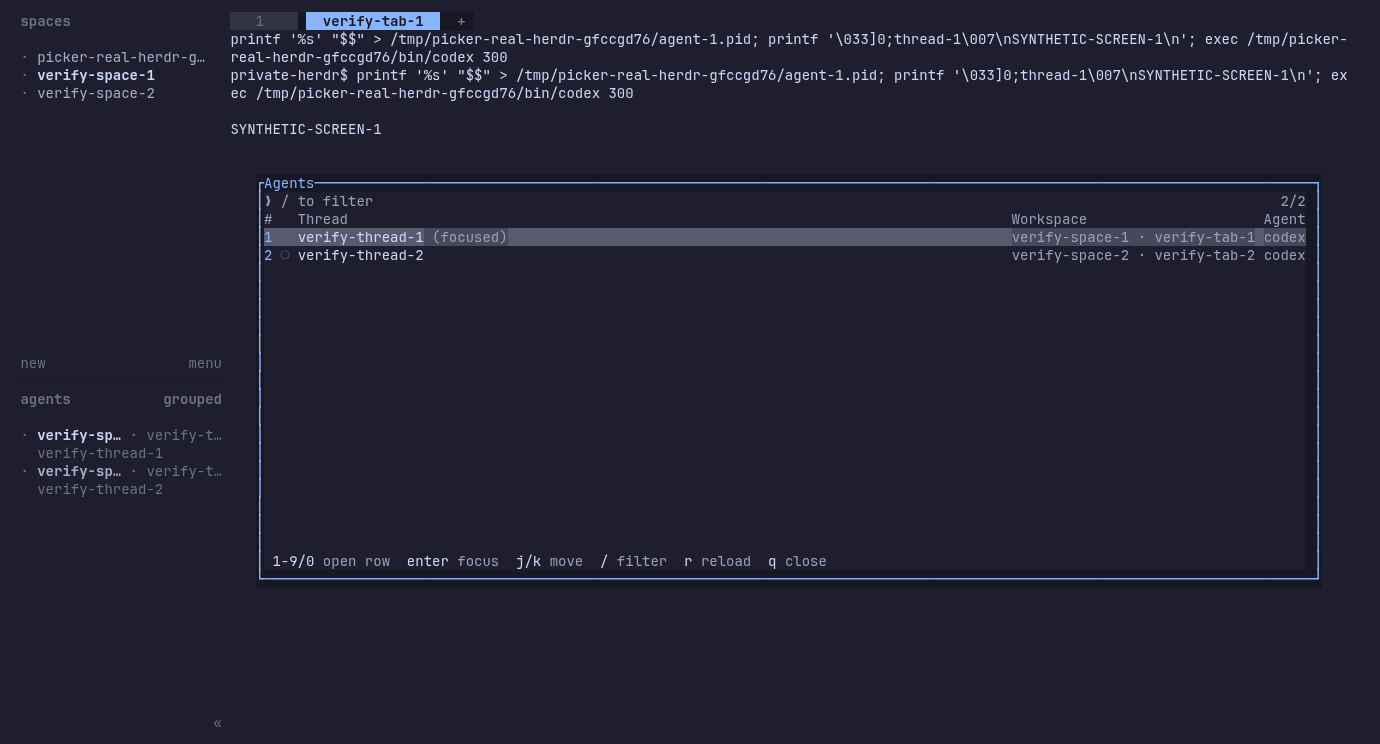
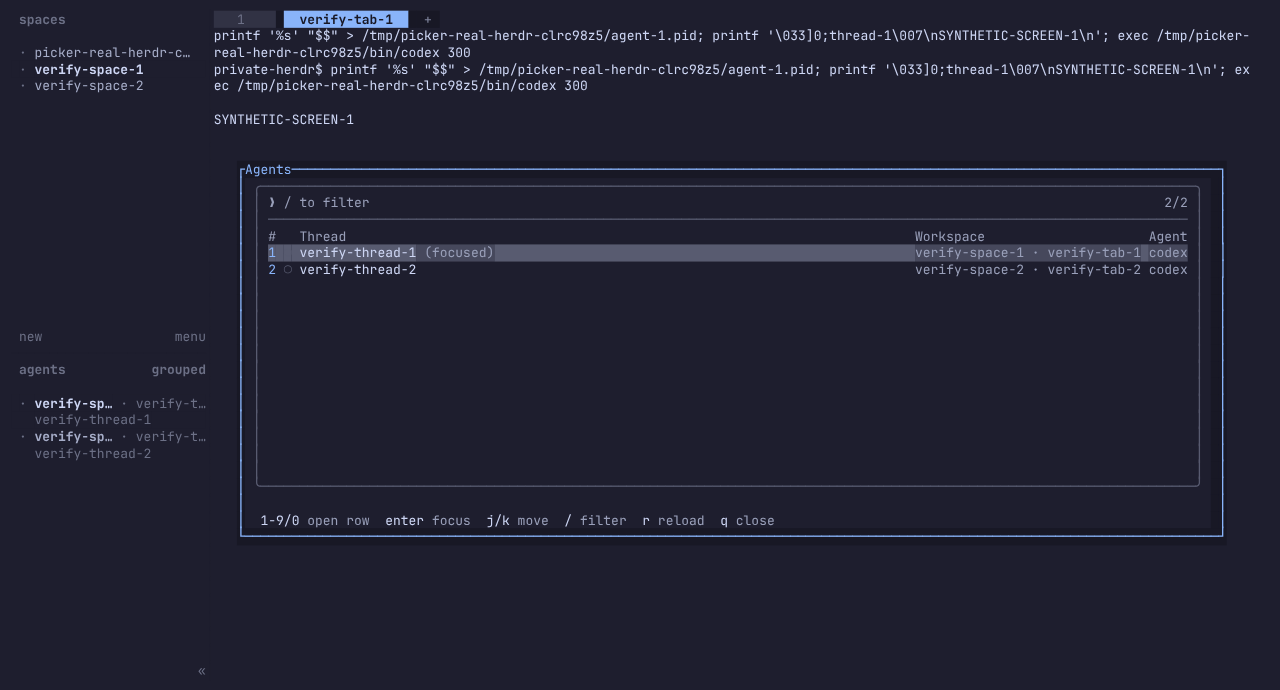
fix(no-ticket): group picker search and threads in a rounded panel

diff --git a/src/ui.rs b/src/ui.rs
@@ -1,8 +1,10 @@
 use ratatui::Frame;
-use ratatui::layout::{Constraint, Layout, Position, Rect};
+use ratatui::layout::{Constraint, Layout, Margin, Position, Rect};
 use ratatui::style::{Color, Modifier, Style, Stylize};
 use ratatui::text::{Line, Span};
-use ratatui::widgets::{Cell, Paragraph, Row, Table, TableState};
+use ratatui::widgets::{
+    Block, BorderType, Borders, Cell, Padding, Paragraph, Row, Table, TableState,
+};
 
 use crate::app::{App, Mode};
 
@@ -10,13 +12,31 @@ use crate::app::{App, Mode};
 const SPINNER: [&str; 10] = ["⠋", "⠙", "⠹", "⠸", "⠼", "⠴", "⠦", "⠧", "⠇", "⠏"];
 
 pub fn draw(frame: &mut Frame, app: &mut App) {
-    let [input_area, heading_area, list_area, footer_area] = Layout::vertical([
+    let [panel_area, _, footer_area] = Layout::vertical([
+        Constraint::Min(0),
+        Constraint::Length(1),
+        Constraint::Length(1),
+    ])
+    .areas(frame.area().inner(Margin::new(1, 0)));
+    let panel = Block::bordered()
+        .border_type(BorderType::Rounded)
+        .border_style(Style::new().dark_gray())
+        .padding(Padding::horizontal(1));
+    let content_area = panel.inner(panel_area);
+    frame.render_widget(panel, panel_area);
+    let [input_area, separator_area, heading_area, list_area] = Layout::vertical([
+        Constraint::Length(1),
         Constraint::Length(1),
         Constraint::Length(1),
         Constraint::Min(0),
-        Constraint::Length(1),
     ])
-    .areas(frame.area());
+    .areas(content_area);
+    frame.render_widget(
+        Block::new()
+            .borders(Borders::TOP)
+            .border_style(Style::new().dark_gray()),
+        separator_area,
+    );
     let count = format!(" {}/{}", app.filtered.len(), app.agents.len());
     let [search_area, count_area] = Layout::horizontal([
         Constraint::Min(0),
@@ -75,7 +95,7 @@ fn draw_input(frame: &mut Frame, app: &App, area: Rect) {
         ]),
     };
     frame.render_widget(Paragraph::new(line), area);
-    if app.mode == Mode::Search {
+    if app.mode == Mode::Search && !area.is_empty() {
         let filter_width = u16::try_from(app.filter.chars().count()).unwrap_or(u16::MAX);
         frame.set_cursor_position(Position::new(
             area.x.saturating_add(2).saturating_add(filter_width),
@@ -480,16 +500,16 @@ mod tests {
     #[test]
     fn numbers_label_visible_rows_and_disappear_during_search() {
         let mut app = numbered_app();
-        let screen = render(&mut app, 80, 6);
+        let screen = render(&mut app, 80, 10);
         assert!(screen.contains("1 ✓ row-00"));
         assert!(screen.contains("3 ✓ row-02"));
         assert!(!screen.contains("4 ✓"));
         app.move_selection(-1);
-        let screen = render(&mut app, 80, 6);
+        let screen = render(&mut app, 80, 10);
         assert!(screen.contains("1 ✓ row-05"));
         assert!(screen.contains("3 ✓ row-07"));
         app.enter_search();
-        assert!(!render(&mut app, 80, 6).contains("1 ✓"));
+        assert!(!render(&mut app, 80, 10).contains("1 ✓"));
     }
 
     #[test]
@@ -505,7 +525,7 @@ mod tests {
     }
 
     #[test]
-    fn thread_titles_use_the_full_popup_without_an_inner_frame() {
+    fn rounded_panel_keeps_full_width_titles_and_a_single_outer_title() {
         let mut app = App::new(None, None);
         app.set_agents(parse_agent_list(
             r#"{"result":{"agents":[{"agent":"codex","agent_status":"idle","pane_id":"w1:p1","terminal_title_stripped":"Fix roster eligibility after season rollover"}]}}"#,
@@ -513,7 +533,19 @@ mod tests {
         let screen = render(&mut app, 80, 12);
         assert!(screen.contains("Fix roster eligibility after season rollover"));
         assert!(!screen.contains("Agents"));
-        assert!(!screen.chars().any(|c| "│─╭╮╰╯┌┐└┘".contains(c)));
+        for corner in "╭╮╰╯".chars() {
+            assert_eq!(screen.matches(corner).count(), 1);
+        }
+        let lines: Vec<String> = screen
+            .chars()
+            .collect::<Vec<_>>()
+            .chunks(80)
+            .map(|row| row.iter().collect())
+            .collect();
+        assert!(lines[1].contains("/ to filter"));
+        assert!(lines[2].contains("───"));
+        assert!(lines[9].contains('╰'));
+        assert!(lines[11].contains("enter focus"));
         assert!(screen.contains("1/1"));
     }
 

diff --git a/.agents/skills/verify-agents-picker/scripts/verify.py b/.agents/skills/verify-agents-picker/scripts/verify.py
@@ -150,7 +150,7 @@ def run_case(feature, binary, evidence, case=None):
 
     def rows():
         return [(match.group(1), int(match.group(2))) for line in screen().splitlines()
-                if (match := re.match(r'^\s*([0-9]?)\s*[◉●✓○⠋⠙⠹⠸⠼⠴⠦⠧⠇⠏]\s+.*?Thread(\d+)', line))]
+                if (match := re.match(r'^\s*│?\s*([0-9]?)\s*[◉●✓○⠋⠙⠹⠸⠼⠴⠦⠧⠇⠏]\s+.*?Thread(\d+)', line))]
 
     def labeled():
         rendered = rows()
@@ -236,7 +236,7 @@ def run_case(feature, binary, evidence, case=None):
             else:
                 rendered = labeled()
                 assert 'Agents' not in screen(), 'inner Agents title remains'
-                assert not any(char in screen() for char in '╭╮╰╯┌┐└┘│'), 'inner border remains'
+                assert all(screen().count(corner) == 1 for corner in '╭╮╰╯'), 'expected one rounded panel'
                 if case.startswith('digit-'):
                     assert len(rendered) >= 10, rendered
                     assert [row for _, row in rendered[:10]] == list(range(1, 11)), rendered
@@ -246,7 +246,7 @@ def run_case(feature, binary, evidence, case=None):
                         noop_digit(label)
                     digit('2')
                 elif case == 'tiny':
-                    tmux('resize-window', '-t', 'verify', '-x', '100', '-y', '7')
+                    tmux('resize-window', '-t', 'verify', '-x', '100', '-y', '11')
                     time.sleep(.25)
                     snapshot('small-viewport')
                     assert 0 < len(labeled()) < 9, rows()
@@ -280,7 +280,7 @@ def run_case(feature, binary, evidence, case=None):
                     wait_for('14/14')
                     digit('2')
                 elif case in ('scroll', 'resize'):
-                    tmux('resize-window', '-t', 'verify', '-x', '100', '-y', '9')
+                    tmux('resize-window', '-t', 'verify', '-x', '100', '-y', '13')
                     time.sleep(.2)
                     for _ in range(11):
                         keys('j')
@@ -288,7 +288,7 @@ def run_case(feature, binary, evidence, case=None):
                     snapshot('scrolled')
                     assert labeled()[0][1] > 1, rows()
                     if case == 'resize':
-                        tmux('resize-window', '-t', 'verify', '-x', '120', '-y', '7')
+                        tmux('resize-window', '-t', 'verify', '-x', '120', '-y', '11')
                         time.sleep(.25)
                         snapshot('resized')
                     digit('2')

diff --git a/.agents/skills/verify-agents-picker/features/launch.md b/.agents/skills/verify-agents-picker/features/launch.md
@@ -15,6 +15,6 @@ Use a throwaway harness or run these steps manually. Herdr and tmux are required
 3. Copy `/bin/sleep` to `<owned-dir>/bin/codex`. Create two workspaces with `herdr workspace create --cwd <owned-dir> --label <distinct-label> --focus`, then a named tab in each with `herdr tab create --workspace <id> --label <distinct-tab> --focus`. Record the returned workspace/tab/pane IDs.
 4. In each test pane, use `herdr pane run <pane-id> <command>` to set a distinct terminal title with an OSC 0 escape, print a unique marker and `exec <owned-dir>/bin/codex 300`. Record each PID before exec. These are sleeping synthetic processes, not AI calls. Wait for both rows in `herdr agent list`; assign names with `herdr agent rename <pane-id> <name>`.
 5. Focus the first workspace, tab and agent using their CLI focus commands. Invoke the exact picker binary with `--open` under the private environment. Capture plain and ANSI screens with `tmux -S <owned-socket> capture-pane -p [-e] -t verify:0.0`.
-6. Verify one outer `Agents` title/border, no inner frame or preview, both thread names, legible workspace/tab labels and visible numbers. The popup is 95% of Herdr's content width and 60% of its content height, excluding the sidebar/status bar. Allow one cell of rounding.
+6. Verify one outer `Agents` title/border, one untitled rounded inner panel and no preview, both thread names, legible workspace/tab labels and visible numbers. The popup is 95% of Herdr's content width and 60% of its content height, excluding the sidebar/status bar. Allow one cell of rounding.
 7. Read the second thread's number from the screen and send it with `tmux -S <owned-socket> send-keys -t verify:0.0 <digit>`. Require the popup to disappear and the second terminal marker to appear. Check `herdr pane current`, `workspace list` and `tab list` against the recorded IDs. Repeat cancellation with Escape and require focus to remain unchanged.
 8. On success or failure, stop the private Herdr server and private tmux server. Verify their sockets refuse connections and recorded synthetic PIDs have exited before removing the owned directory. Retain captures, CLI results, binary hash and cleanup proof outside it. Never kill by process name or use a user's socket.

diff --git a/.agents/skills/verify-agents-picker/SKILL.md b/.agents/skills/verify-agents-picker/SKILL.md
@@ -15,7 +15,7 @@ python3 .agents/skills/verify-agents-picker/scripts/verify.py run numbers --evid
 
 The public recipes are `search`, `navigation`, `numbers`, `refresh`, and `launch`. Give each a new evidence directory. Use `--binary /absolute/path/agents-picker` to pin another build. `doctor` reports its path, SHA-256, help, and tmux version. Python 3 and tmux are required; no Python packages are needed.
 
-The picker is one full-width list with number, status, thread, workspace, and agent columns. Thread gets most width. Herdr supplies the outer `Agents` title and 95% by 60% popup. The picker draws no interior border or preview. Explicit names take precedence over normalized terminal titles; terminal reads and observe requests fail verification.
+The picker is one full-width list with number, status, thread, workspace, and agent columns. Thread gets most width. Herdr supplies the outer `Agents` title and 95% by 60% popup. One untitled rounded panel contains search and rows; keyboard hints sit below. There is no preview. Explicit names take precedence over normalized terminal titles; terminal reads and observe requests fail verification.
 
 Each case owns a fresh tmux socket, configuration, fixture, and plugin state directory. It never connects to user Herdr or tmux. Socket denial requires rerunning the same isolated command with suitable permissions, never substituting a live session. `fixture` and `child` are internal commands.
 

diff --git a/AGENTS.md b/AGENTS.md
@@ -5,8 +5,9 @@ Install this fork from `aryan-binazir/herdr-agents-picker`, pinned to a reviewed
 commit. Update the dotfiles pin and scoped Herdr `AGENTS.md` when shipping.
 
 Herdr owns the popup's border and `Agents` title. The TUI draws a full-width
-list. Keep the manifest's popup size versioned. Number shortcuts address the
-first ten visible rows in navigation mode; search-mode digits are text.
+list inside one untitled rounded panel, with keyboard hints below. Keep the
+manifest's popup size versioned. Number shortcuts address the first ten visible
+rows in navigation mode; search-mode digits are text.
 Status comes from Herdr integrations, not terminal-output inference.
 
 Read README.md for setup, keys and Rust checks. After UI/input changes, follow

diff --git a/README.md b/README.md
@@ -3,8 +3,9 @@
 A full-width thread picker for Herdr, forked from
 [yxhta/herdr-agents-picker](https://github.com/yxhta/herdr-agents-picker).
 Thread names get most of the space. Rows show a number, agent status, thread,
-workspace/tab and agent type. Herdr supplies the single popup border and title.
-There is no terminal preview.
+workspace/tab and agent type. Herdr supplies the outer popup border and single
+`Agents` title. A rounded inner panel groups search and threads, with keyboard
+hints below. There is no terminal preview.
 
 ![Full-width numbered thread picker](docs/screenshot.png)
 
